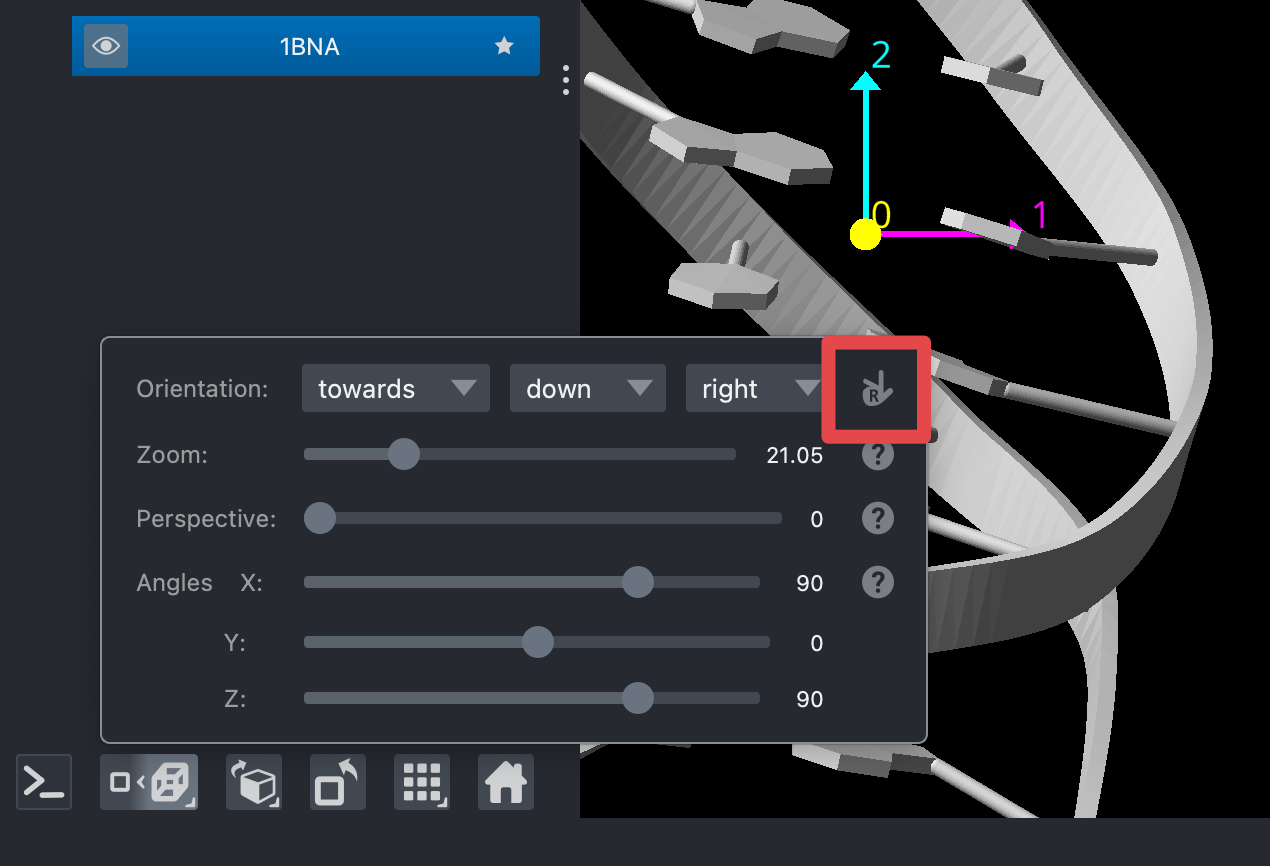
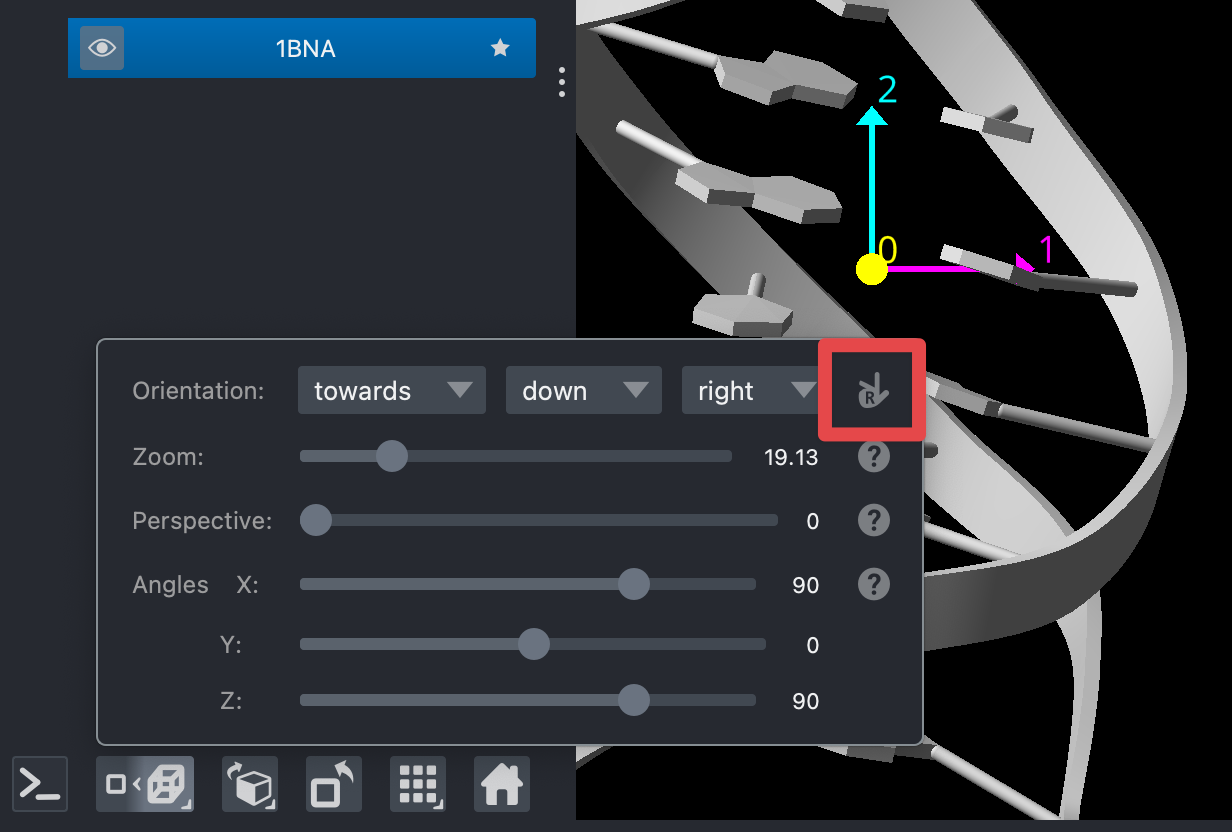
Add smooth shading

Changed region(s): [[0.0, 0.0, 1.0, 1.0]]

diff --git a/docs/guides/handedness.md b/docs/guides/handedness.md
@@ -124,7 +124,7 @@ from vispy.io import read_mesh
 vertices, faces, _, _ = read_mesh('../data/1BNA.obj.gz')
 
 viewer = napari.Viewer(ndisplay=3)
-layer = viewer.add_surface((vertices, faces), name='1BNA')
+layer = viewer.add_surface((vertices, faces), name='1BNA', shading='smooth')
 ```
 
 ```{code-cell} python
